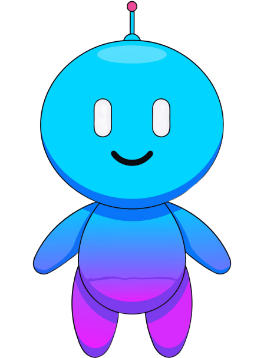
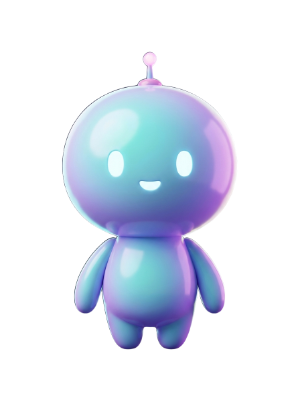
feat: Aria en 3D — render estilo Pixar para la mascota
Se sustituye el personaje vectorial plano por un render 3D (nano banana
via Higgsfield): cuerpo con volumen, acabado glossy iridiscente cian a
morado, ojos luminosos y antena. Fondo eliminado con remove_background
y optimizado a 300px (80KB). La cabeza del mismo personaje pasa a ser
el avatar de la cabecera del chat (recorte con object-position: top).

diff --git a/servicios.html b/servicios.html
@@ -39,7 +39,7 @@
     <link
         href="https://fonts.googleapis.com/css2?family=Inter:wght@400;500;600;700;800;900&family=Outfit:wght@400;500;600;700;800;900&display=swap"
         rel="stylesheet">
-    <link rel="stylesheet" href="styles.css?v=2.10">
+    <link rel="stylesheet" href="styles.css?v=2.11">
     <link rel="stylesheet" href="higgsfield-visuals.css?v=1.8">
 
     <script>(function (w, d, s, l, i) { w[l] = w[l] || []; w[l].push({ 'gtm.start': new Date().getTime(), event: 'gtm.js' }); var f = d.getElementsByTagName(s)[0], j = d.createElement(s), dl = l != 'dataLayer' ? '&l=' + l : ''; j.async = true; j.src = 'https://www.googletagmanager.com/gtm.js?id=' + i + dl; f.parentNode.insertBefore(j, f); })(window, document, 'script', 'dataLayer', 'GTM-NQBVM9WR');</script>
@@ -329,7 +329,7 @@
                 d="M12 0C5.373 0 0 5.373 0 12c0 2.625.846 5.059 2.284 7.034L.789 23.492l4.65-1.487A11.945 11.945 0 0012 24c6.627 0 12-5.373 12-12S18.627 0 12 0zm0 22c-1.874 0-3.646-.523-5.16-1.433l-.374-.224-3.703 1.185 1.19-3.603-.246-.382A9.936 9.936 0 012 12c0-5.514 4.486-10 10-10s10 4.486 10 10-4.486 10-10 10zm5.507-7.507c-.303-.152-1.791-.885-2.069-.986-.278-.101-.48-.152-.682.152-.202.303-.786.986-.964 1.19-.178.202-.356.228-.659.076-.303-.152-1.281-.472-2.44-1.507-.902-.805-1.511-1.8-1.689-2.103-.178-.303-.019-.467.133-.619.136-.136.303-.354.454-.531.151-.177.202-.303.303-.505.101-.202.051-.379-.025-.531-.076-.152-.682-1.643-.934-2.25-.246-.59-.495-.509-.682-.518-.177-.009-.379-.009-.581-.009s-.531.076-.81.379c-.278.303-1.062 1.039-1.062 2.531 0 1.492 1.088 2.933 1.241 3.133.152.202 2.137 3.263 5.177 4.577.723.312 1.287.498 1.726.637.725.23 1.385.198 1.907.12.582-.087 1.791-.732 2.043-1.439.252-.707.252-1.314.176-1.441-.076-.127-.278-.202-.581-.354z" />
         </svg></a>
     <script src="higgsfield-visuals.js?v=1.8"></script>
-    <script src="script.js?v=3.16"></script>
+    <script src="script.js?v=3.17"></script>
 </body>
 
 </html>

diff --git a/sobre-mi.html b/sobre-mi.html
@@ -38,7 +38,7 @@
     <link
         href="https://fonts.googleapis.com/css2?family=Inter:wght@400;500;600;700;800;900&family=Outfit:wght@400;500;600;700;800;900&display=swap"
         rel="stylesheet">
-    <link rel="stylesheet" href="styles.css?v=2.10">
+    <link rel="stylesheet" href="styles.css?v=2.11">
     <link rel="stylesheet" href="higgsfield-visuals.css?v=1.8">
 
     <script>(function (w, d, s, l, i) { w[l] = w[l] || []; w[l].push({ 'gtm.start': new Date().getTime(), event: 'gtm.js' }); var f = d.getElementsByTagName(s)[0], j = d.createElement(s), dl = l != 'dataLayer' ? '&l=' + l : ''; j.async = true; j.src = 'https://www.googletagmanager.com/gtm.js?id=' + i + dl; f.parentNode.insertBefore(j, f); })(window, document, 'script', 'dataLayer', 'GTM-NQBVM9WR');</script>
@@ -286,7 +286,7 @@
                 d="M12 0C5.373 0 0 5.373 0 12c0 2.625.846 5.059 2.284 7.034L.789 23.492l4.65-1.487A11.945 11.945 0 0012 24c6.627 0 12-5.373 12-12S18.627 0 12 0zm0 22c-1.874 0-3.646-.523-5.16-1.433l-.374-.224-3.703 1.185 1.19-3.603-.246-.382A9.936 9.936 0 012 12c0-5.514 4.486-10 10-10s10 4.486 10 10-4.486 10-10 10zm5.507-7.507c-.303-.152-1.791-.885-2.069-.986-.278-.101-.48-.152-.682.152-.202.303-.786.986-.964 1.19-.178.202-.356.228-.659.076-.303-.152-1.281-.472-2.44-1.507-.902-.805-1.511-1.8-1.689-2.103-.178-.303-.019-.467.133-.619.136-.136.303-.354.454-.531.151-.177.202-.303.303-.505.101-.202.051-.379-.025-.531-.076-.152-.682-1.643-.934-2.25-.246-.59-.495-.509-.682-.518-.177-.009-.379-.009-.581-.009s-.531.076-.81.379c-.278.303-1.062 1.039-1.062 2.531 0 1.492 1.088 2.933 1.241 3.133.152.202 2.137 3.263 5.177 4.577.723.312 1.287.498 1.726.637.725.23 1.385.198 1.907.12.582-.087 1.791-.732 2.043-1.439.252-.707.252-1.314.176-1.441-.076-.127-.278-.202-.581-.354z" />
         </svg></a>
     <script src="higgsfield-visuals.js?v=1.8"></script>
-    <script src="script.js?v=3.16"></script>
+    <script src="script.js?v=3.17"></script>
 </body>
 
 </html>

diff --git a/index.html b/index.html
@@ -45,7 +45,7 @@
     <link
         href="https://fonts.googleapis.com/css2?family=Inter:wght@400;500;600;700;800;900&family=Outfit:wght@400;500;600;700;800;900&display=swap"
         rel="stylesheet">
-    <link rel="stylesheet" href="styles.css?v=2.10">
+    <link rel="stylesheet" href="styles.css?v=2.11">
     <link rel="stylesheet" href="higgsfield-visuals.css?v=1.8">
 
     <script>(function (w, d, s, l, i) { w[l] = w[l] || []; w[l].push({ 'gtm.start': new Date().getTime(), event: 'gtm.js' }); var f = d.getElementsByTagName(s)[0], j = d.createElement(s), dl = l != 'dataLayer' ? '&l=' + l : ''; j.async = true; j.src = 'https://www.googletagmanager.com/gtm.js?id=' + i + dl; f.parentNode.insertBefore(j, f); })(window, document, 'script', 'dataLayer', 'GTM-NQBVM9WR');</script>
@@ -822,7 +822,7 @@
     </div>
 
     <script src="https://cdnjs.cloudflare.com/ajax/libs/gsap/3.12.5/gsap.min.js" crossorigin="anonymous" async></script>
-    <script src="script.js?v=3.16"></script>
+    <script src="script.js?v=3.17"></script>
     <script src="higgsfield-visuals.js?v=1.8"></script>
 </body>
 

diff --git a/script.js b/script.js
@@ -928,13 +928,13 @@ function initChatbot() {
     const toggle = document.createElement('button');
     toggle.className = 'chat-widget-toggle';
     toggle.setAttribute('aria-label', t().label);
-    toggle.innerHTML = `<span class="mascot-body"><img src="aria-mascot.png?v=1" alt="" class="chat-widget-toggle-avatar"></span>`;
+    toggle.innerHTML = `<span class="mascot-body"><img src="aria-mascot.png?v=2" alt="" class="chat-widget-toggle-avatar"></span>`;
 
     const panel = document.createElement('div');
     panel.className = 'chat-widget-panel';
     panel.innerHTML = `
         <div class="chat-widget-header">
-            <img src="chat-avatar.svg?v=1" alt="" class="chat-widget-avatar">
+            <img src="aria-mascot.png?v=2" alt="" class="chat-widget-avatar">
             <div class="chat-widget-header-text">
                 <h3 data-i18n="chatbot.title">Aria · SaeTech</h3>
                 <p data-i18n="chatbot.subtitle">Pregúntame sobre nuestros servicios y precios.</p>

diff --git a/contacto.html b/contacto.html
@@ -38,7 +38,7 @@
     <link
         href="https://fonts.googleapis.com/css2?family=Inter:wght@400;500;600;700;800;900&family=Outfit:wght@400;500;600;700;800;900&display=swap"
         rel="stylesheet">
-    <link rel="stylesheet" href="styles.css?v=2.10">
+    <link rel="stylesheet" href="styles.css?v=2.11">
     <link rel="stylesheet" href="higgsfield-visuals.css?v=1.8">
 
     <script>(function (w, d, s, l, i) { w[l] = w[l] || []; w[l].push({ 'gtm.start': new Date().getTime(), event: 'gtm.js' }); var f = d.getElementsByTagName(s)[0], j = d.createElement(s), dl = l != 'dataLayer' ? '&l=' + l : ''; j.async = true; j.src = 'https://www.googletagmanager.com/gtm.js?id=' + i + dl; f.parentNode.insertBefore(j, f); })(window, document, 'script', 'dataLayer', 'GTM-NQBVM9WR');</script>
@@ -287,7 +287,7 @@
     </script>
 
     <script src="higgsfield-visuals.js?v=1.8"></script>
-    <script src="script.js?v=3.16"></script>
+    <script src="script.js?v=3.17"></script>
 </body>
 
 </html>

diff --git a/portfolio.html b/portfolio.html
@@ -39,7 +39,7 @@
     <link
         href="https://fonts.googleapis.com/css2?family=Inter:wght@400;500;600;700;800;900&family=Outfit:wght@400;500;600;700;800;900&display=swap"
         rel="stylesheet">
-    <link rel="stylesheet" href="styles.css?v=2.10">
+    <link rel="stylesheet" href="styles.css?v=2.11">
     <link rel="stylesheet" href="higgsfield-visuals.css?v=1.8">
 
     <style>
@@ -489,7 +489,7 @@
     </div>
 
     <script src="higgsfield-visuals.js?v=1.8"></script>
-    <script src="script.js?v=3.16"></script>
+    <script src="script.js?v=3.17"></script>
     <script>
     (function () {
         var modal = document.getElementById('modalVisitas');

diff --git a/blog-posicionamiento-ia.html b/blog-posicionamiento-ia.html
@@ -36,7 +36,7 @@
     <link
         href="https://fonts.googleapis.com/css2?family=Inter:wght@400;500;600;700;800;900&family=Outfit:wght@400;500;600;700;800;900&display=swap"
         rel="stylesheet">
-    <link rel="stylesheet" href="styles.css?v=2.10">
+    <link rel="stylesheet" href="styles.css?v=2.11">
     <link rel="stylesheet" href="higgsfield-visuals.css?v=1.8">
 
     <script type="application/ld+json">
@@ -257,7 +257,7 @@
     </button>
 
     <script src="higgsfield-visuals.js?v=1.8"></script>
-    <script src="script.js?v=3.16"></script>
+    <script src="script.js?v=3.17"></script>
 </body>
 
 </html>

diff --git a/servicio-apps.html b/servicio-apps.html
@@ -33,7 +33,7 @@
     <link
         href="https://fonts.googleapis.com/css2?family=Inter:wght@400;500;600;700;800;900&family=Outfit:wght@400;500;600;700;800;900&display=swap"
         rel="stylesheet">
-    <link rel="stylesheet" href="styles.css?v=2.10">
+    <link rel="stylesheet" href="styles.css?v=2.11">
     <link rel="stylesheet" href="higgsfield-visuals.css?v=1.8">
 
     <script type="application/ld+json">
@@ -294,7 +294,7 @@
     </button>
 
     <script src="higgsfield-visuals.js?v=1.8"></script>
-    <script src="script.js?v=3.16"></script>
+    <script src="script.js?v=3.17"></script>
 </body>
 
 </html>

diff --git a/servicio-automatizaciones.html b/servicio-automatizaciones.html
@@ -33,7 +33,7 @@
     <link
         href="https://fonts.googleapis.com/css2?family=Inter:wght@400;500;600;700;800;900&family=Outfit:wght@400;500;600;700;800;900&display=swap"
         rel="stylesheet">
-    <link rel="stylesheet" href="styles.css?v=2.10">
+    <link rel="stylesheet" href="styles.css?v=2.11">
     <link rel="stylesheet" href="higgsfield-visuals.css?v=1.8">
 
     <script type="application/ld+json">
@@ -291,7 +291,7 @@
     </button>
 
     <script src="higgsfield-visuals.js?v=1.8"></script>
-    <script src="script.js?v=3.16"></script>
+    <script src="script.js?v=3.17"></script>
 </body>
 
 </html>

diff --git a/servicio-ia.html b/servicio-ia.html
@@ -33,7 +33,7 @@
     <link
         href="https://fonts.googleapis.com/css2?family=Inter:wght@400;500;600;700;800;900&family=Outfit:wght@400;500;600;700;800;900&display=swap"
         rel="stylesheet">
-    <link rel="stylesheet" href="styles.css?v=2.10">
+    <link rel="stylesheet" href="styles.css?v=2.11">
     <link rel="stylesheet" href="higgsfield-visuals.css?v=1.8">
 
     <script type="application/ld+json">
@@ -310,7 +310,7 @@
     </button>
 
     <script src="higgsfield-visuals.js?v=1.8"></script>
-    <script src="script.js?v=3.16"></script>
+    <script src="script.js?v=3.17"></script>
 </body>
 
 </html>

diff --git a/servicio-saas.html b/servicio-saas.html
@@ -33,7 +33,7 @@
     <link
         href="https://fonts.googleapis.com/css2?family=Inter:wght@400;500;600;700;800;900&family=Outfit:wght@400;500;600;700;800;900&display=swap"
         rel="stylesheet">
-    <link rel="stylesheet" href="styles.css?v=2.10">
+    <link rel="stylesheet" href="styles.css?v=2.11">
     <link rel="stylesheet" href="higgsfield-visuals.css?v=1.8">
 
     <script type="application/ld+json">
@@ -289,7 +289,7 @@
     </button>
 
     <script src="higgsfield-visuals.js?v=1.8"></script>
-    <script src="script.js?v=3.16"></script>
+    <script src="script.js?v=3.17"></script>
 </body>
 
 </html>

diff --git a/servicio-seo.html b/servicio-seo.html
@@ -33,7 +33,7 @@
     <link
         href="https://fonts.googleapis.com/css2?family=Inter:wght@400;500;600;700;800;900&family=Outfit:wght@400;500;600;700;800;900&display=swap"
         rel="stylesheet">
-    <link rel="stylesheet" href="styles.css?v=2.10">
+    <link rel="stylesheet" href="styles.css?v=2.11">
     <link rel="stylesheet" href="higgsfield-visuals.css?v=1.8">
 
     <script type="application/ld+json">
@@ -292,7 +292,7 @@
     </button>
 
     <script src="higgsfield-visuals.js?v=1.8"></script>
-    <script src="script.js?v=3.16"></script>
+    <script src="script.js?v=3.17"></script>
 </body>
 
 </html>
